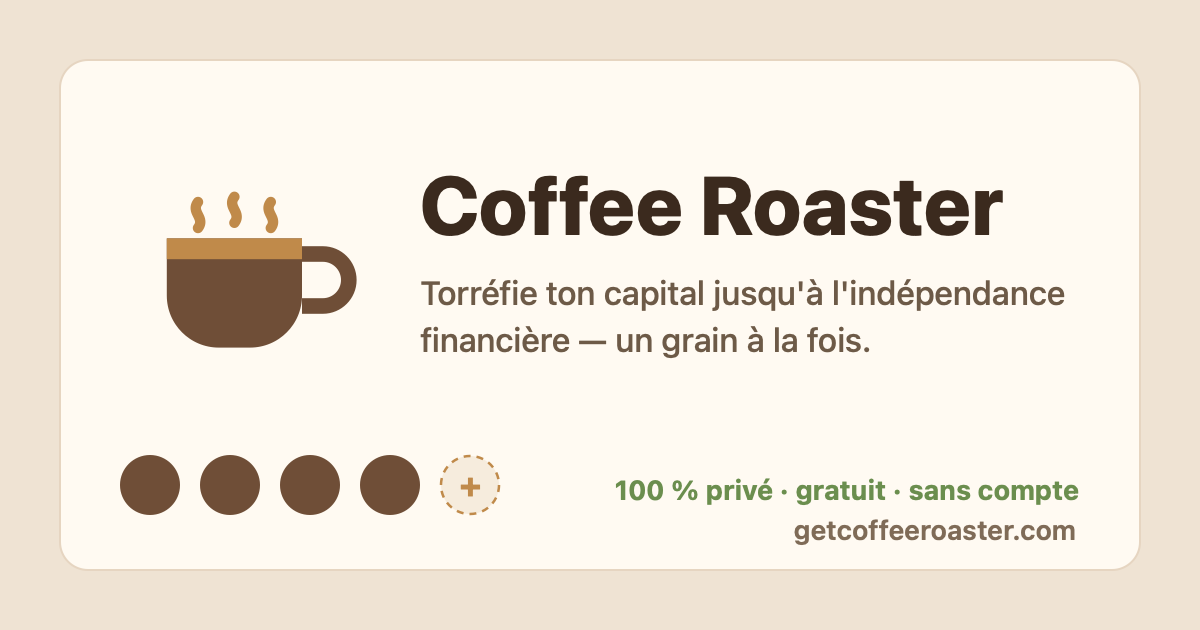
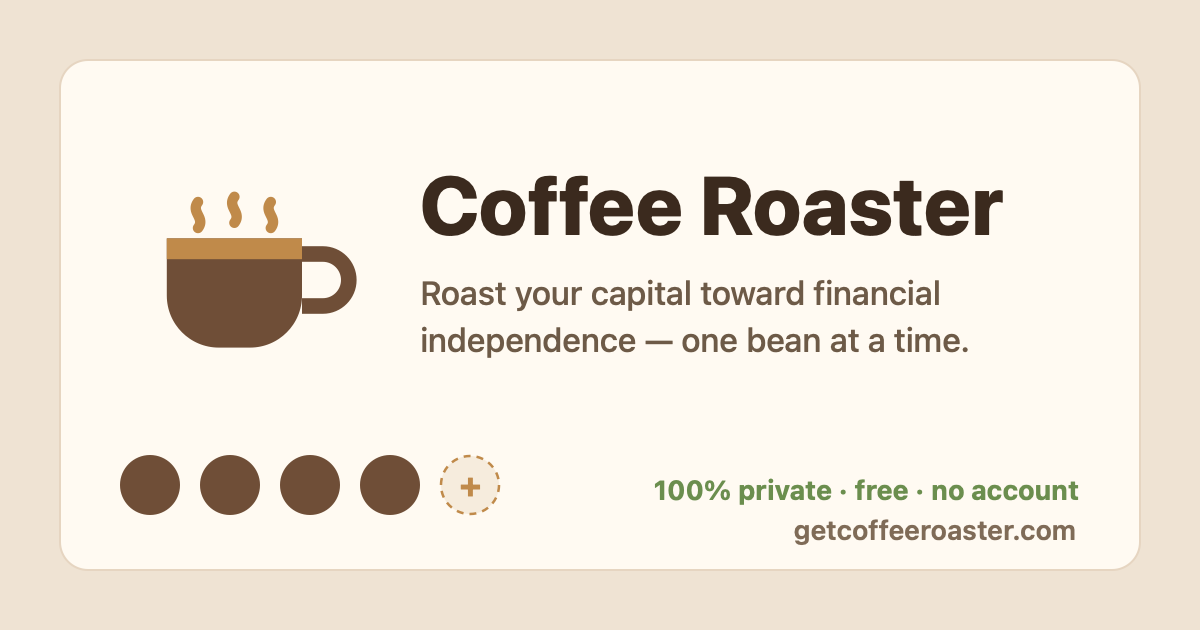
Métadonnées en anglais (langue universelle) + image OG retraduite
- <html lang>, <title>, meta description, og:title, og:description en
  anglais dans le HTML source ("Roast your capital toward freedom").
- Clé JS title (EN) synchronisée pour cohérence au runtime.
- og.png régénéré en anglais (même pipeline SVG→PNG).

Nuance : <title>/lang restent dynamiques (recalibrés selon la langue du
visiteur par le JS) ; og:title/og:description figés en anglais car lus
par les robots sociaux qui n'exécutent pas le JS.

Changed region(s): [[0.3392, 0.4222, 0.8942, 0.573], [0.4933, 0.754, 0.8942, 0.8143]]

diff --git a/public/Coffee-Roaster-partageable.html b/public/Coffee-Roaster-partageable.html
@@ -1,14 +1,14 @@
 <!DOCTYPE html>
-<html lang="fr">
+<html lang="en">
 <head>
 <meta charset="utf-8">
 <meta name="viewport" content="width=device-width, initial-scale=1">
-<title>Coffee Roaster — torréfie ton capital vers la liberté</title>
-<meta name="description" content="Suis ta progression vers l'indépendance financière, façon carte de fidélité café. 100 % privé : tes données restent dans ton navigateur, sans compte ni serveur.">
+<title>Coffee Roaster — Roast your capital toward freedom</title>
+<meta name="description" content="Track your progress toward financial independence, loyalty-card style. 100% private: your data stays in your browser, no account, no server.">
 <meta name="theme-color" content="#efe3d3">
 <meta name="google-site-verification" content="7VHBNmMOzvTdpqIyMIpPo4xXP1tIbSzLA6h0irv0OPU">
-<meta property="og:title" content="Coffee Roaster — torréfie ton capital vers la liberté">
-<meta property="og:description" content="Suis ta progression vers l'indépendance financière, façon carte de fidélité café. 100 % privé, sans compte.">
+<meta property="og:title" content="Coffee Roaster — Roast your capital toward freedom">
+<meta property="og:description" content="Track your progress toward financial independence, loyalty-card style. 100% private, no account.">
 <meta property="og:type" content="website">
 <meta property="og:url" content="https://getcoffeeroaster.com/">
 <meta property="og:image" content="https://getcoffeeroaster.com/og.png">
@@ -457,7 +457,7 @@
       alert_invalid:"Fichier invalide."
     },
     en:{
-      title:"Coffee Roaster — roast your capital toward freedom",
+      title:"Coffee Roaster — Roast your capital toward freedom",
       tag:"Roast your capital toward financial independence — one bean at a time.",
       btn_export:"Export", btn_export_t:"Download a backup file",
       btn_import:"Import", btn_import_t:"Load an exported backup",